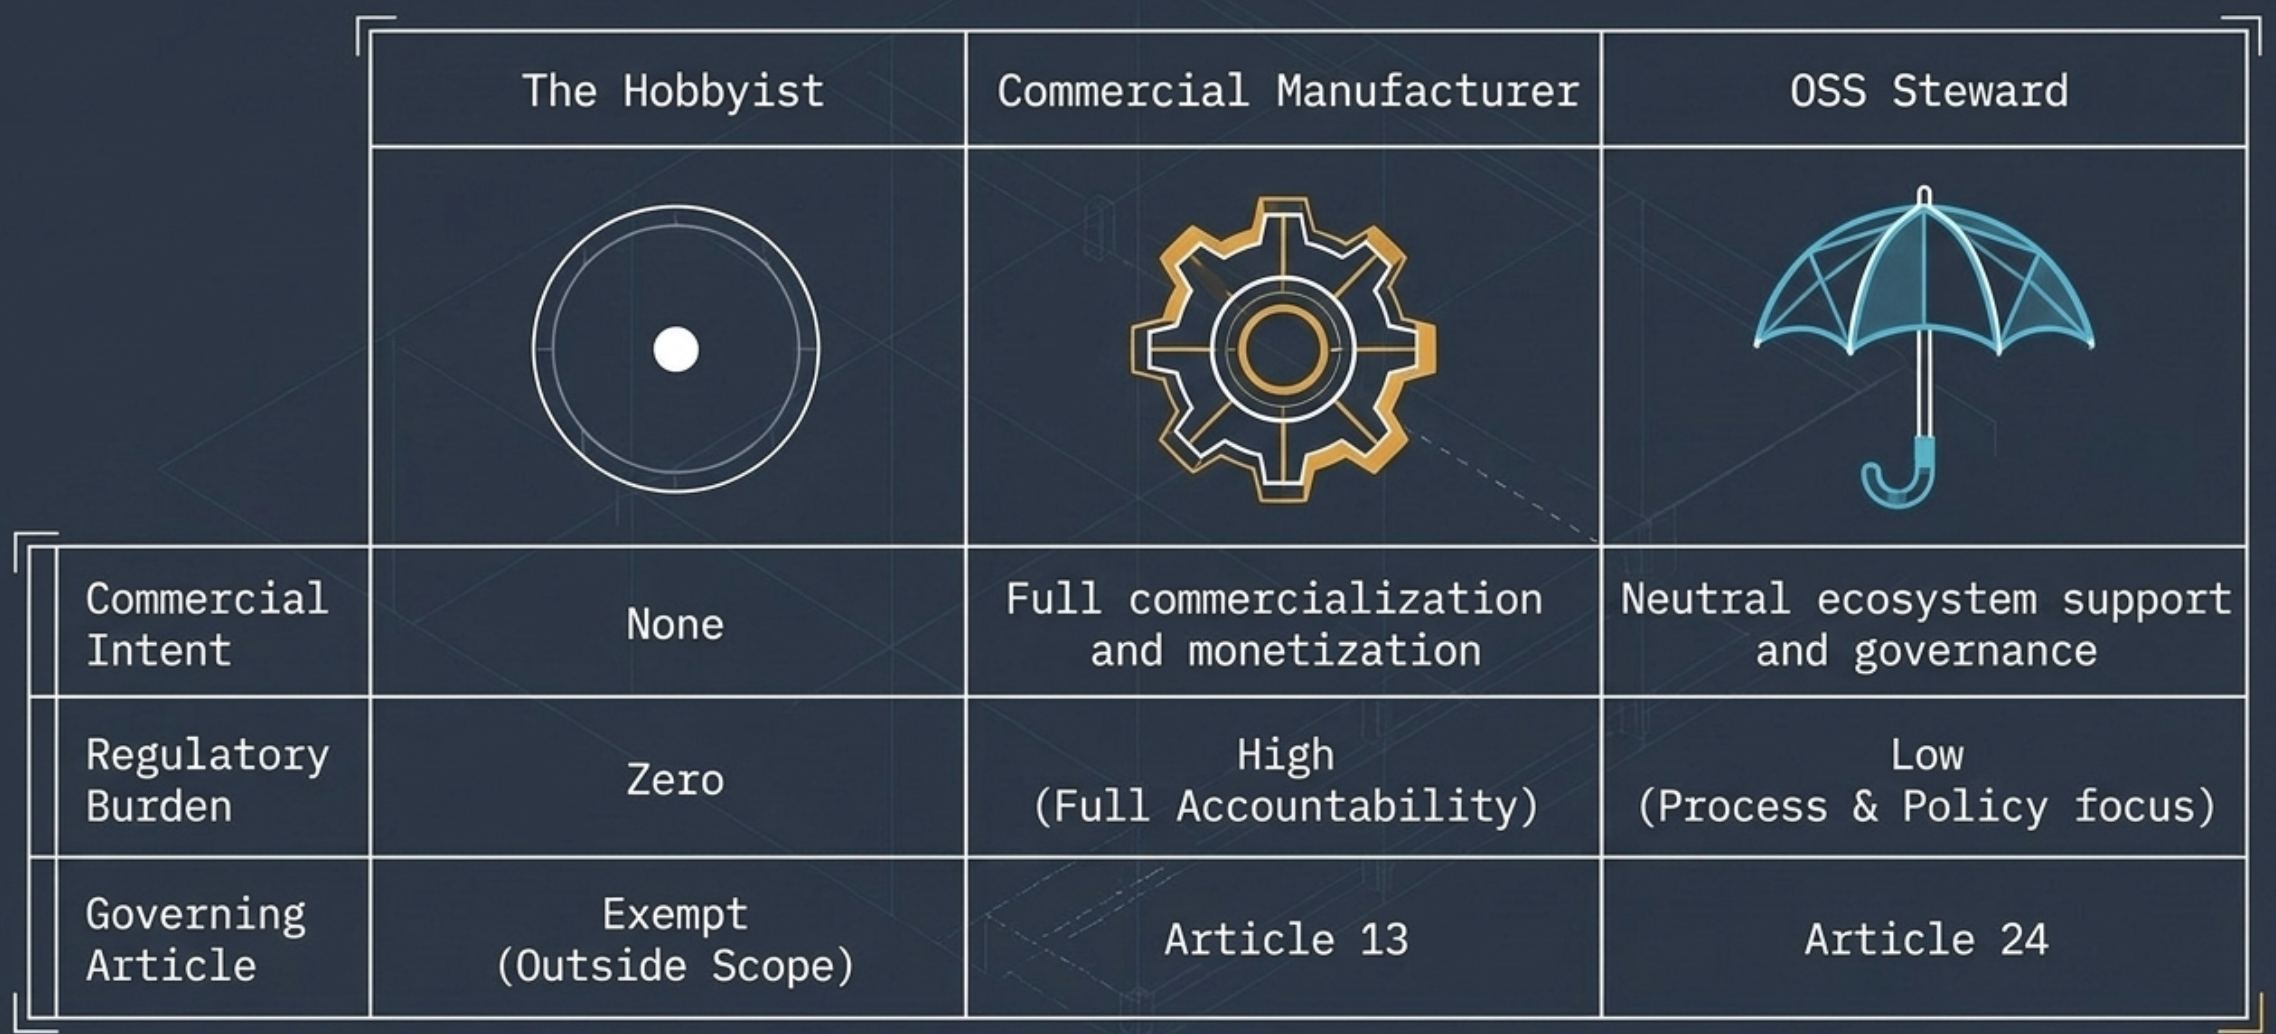
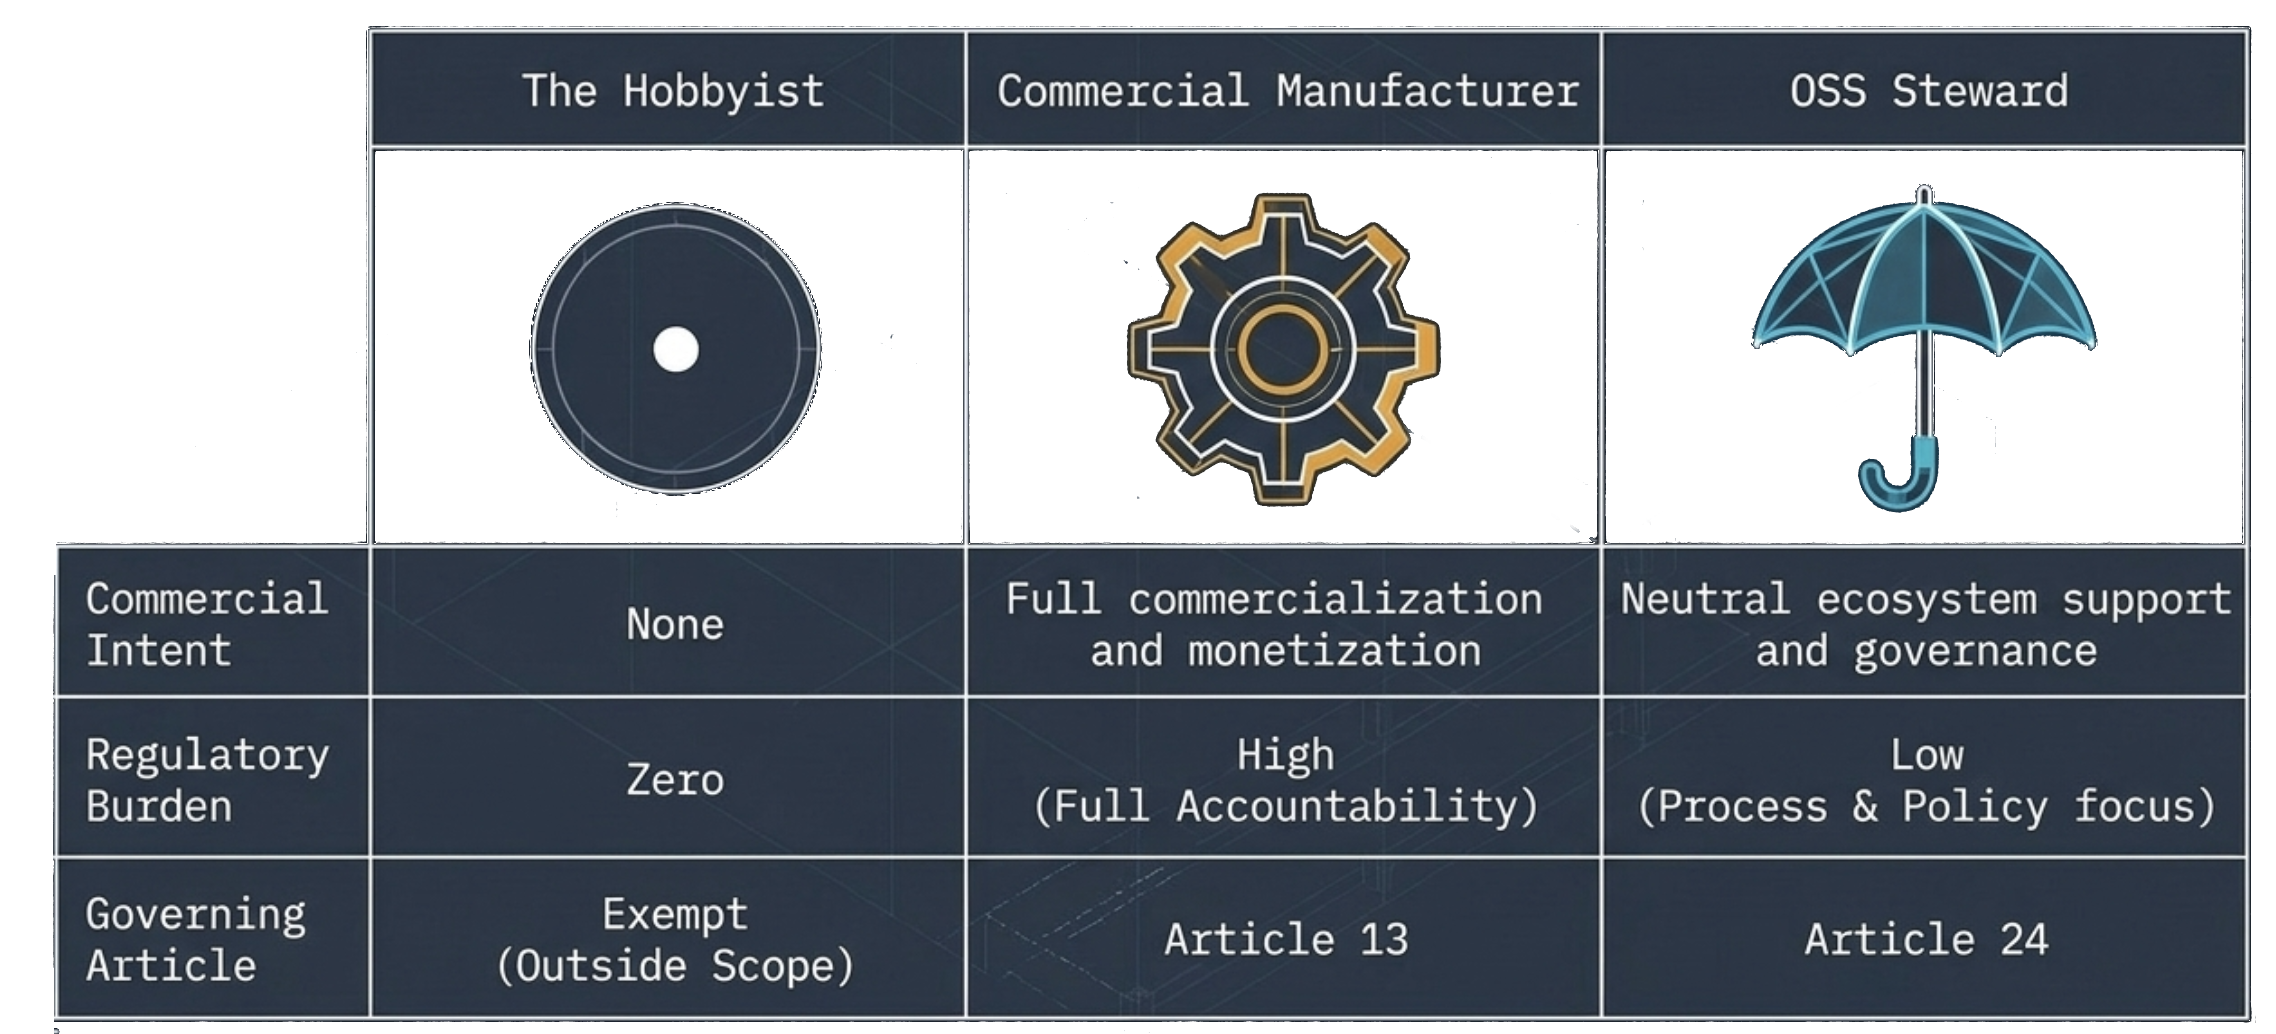
done for now

diff --git a/mom-cra-oss.md b/mom-cra-oss.md
@@ -13,7 +13,6 @@ Compliant with the reveal.js<br/>
 click the logo to see it live!
 
 ---
-
 ---
 
 # Mind over Machine
@@ -21,29 +20,27 @@ click the logo to see it live!
 We are a non-profit foundation combining a **think tank**, a **laboratory**, and a **community of practice**. Our mission is to explore and share regenerative approaches to software development that create a net positive long-term value for people and humanity.
 
 ---
-
 ---
 
 <!-- .slide: style="font-size: 0.85em;" -->
 
 ## Open Source - before and after
 
-OSS software becomes regulated
+EU's Cyber Resilince Act (CRA)
 
-![mom](./assets/oss-before-after-crs.png)<!-- .element style="height: 350px; margin: 0 auto 4rem auto; background: transparent; align: left;" -->
+![mom](./assets/oss-before-after-cra.png)<!-- .element style="height: 350px; margin: 0 auto 4rem auto; background: transparent; align: left;" -->
 
 Note:
 
 ---
 
-## Open Source - before and after
+## EU's Cyber Resilince Act
 
 - **Mandates**<br/>_Secure-by-Desing_ for all products with digital elements
 - **Paradigm shift**<br/>OSS is not a loop hole. EU market entry requires specific legal accountability
 - **Goals**<br/>Secure free movement of secure products
 
 ---
-
 ---
 
 ## Open Source - three roles
@@ -56,7 +53,7 @@ Note:
 
 ## Ultimate Responsibility Rests with the Manufacturer
 
-- **Article 13:**<br/>The legal obligation to comply with the CRA falls squarely on the manufacturer
+- **[Article 13](https://www.european-cyber-resilience-act.com/Cyber_Resilience_Act_Article_13.html):**<br/>The legal obligation to comply with the CRA falls squarely on the manufacturer
 
 - **Manufacturere Definition:**<br/>The economic operator that places the final digital product on the EU market
 
@@ -66,7 +63,7 @@ Note:
 
 ## OSS Stewards Are Recognized Legal Entities, Not Mandatory Gatekeepers
 
-- **Article 24**:<br/>Defines light-weight obligations specifically for Open-Source Software Stewards
+- **[Article 24](https://www.european-cyber-resilience-act.com/Cyber_Resilience_Act_Article_24.html)**:<br/>Defines light-weight obligations specifically for Open-Source Software Stewards
 
 - **OSS Steward Definition:**<br/>Not-for-profit legal entities that provide sustained support and infrastructure for FOSS projects
 
@@ -79,21 +76,20 @@ Note:
 - **But the second you start charging...**<br/>...customers for your product, you tranform into the _manufacturere_ role yourself!
 
 ---
-
 ---
 
 ## Manufacturere responsibilities
 
-- Technical Documentation (Article 31)
+- Technical Documentation ([Article&nbsp;31](https://www.european-cyber-resilience-act.com/Cyber_Resilience_Act_Article_31.html))
   - SBOM (Software Bill Of Materials)
   - Cybersecurity Risk Assessment
   - Test Reports & Verification Data
   - Evidence of secure-by-design
   - Architectural design
   - Vulnerability scans
-- EU Declaration of Conformity (Article 28)
-- CE Marking (Articles 29 & 30)
-- Mandatory Vulnerability & Incident Reports (Article 14)
+- EU Declaration of Conformity ([Article&nbsp;28](https://www.european-cyber-resilience-act.com/Cyber_Resilience_Act_Article_28.html))
+- CE Marking (Articles&nbsp;[29](https://www.european-cyber-resilience-act.com/Cyber_Resilience_Act_Article_29.html)&nbsp;&&nbsp;[30](https://www.european-cyber-resilience-act.com/Cyber_Resilience_Act_Article_30.html))
+- Mandatory Vulnerability & Incident Reports ([Article&nbsp;14](https://www.european-cyber-resilience-act.com/Cyber_Resilience_Act_Article_14.html))
 
 <!-- .element style="font-size: 0.8em;" -->
 
@@ -101,30 +97,28 @@ Note:
 
 ## OSS Steward responsibilities
 
-- Verifiable Cybersecurity Policy (Article 24(1))
-- Policy Documentation for Authorities (Article 24(2))
-- Targeted Infrastructure Incident Reports (Article 24(3) & Article 14)
-- Voluntary Security Attestations (Article 25)
+- Verifiable Cybersecurity Policy ([Article&nbsp;24](https://www.european-cyber-resilience-act.com/Cyber_Resilience_Act_Article_24.html)(1))
+- Policy Documentation for Authorities ([Article&nbsp;24](https://www.european-cyber-resilience-act.com/Cyber_Resilience_Act_Article_24.html)(2))
+- Targeted Infrastructure Incident Reports ([Article&nbsp;24](https://www.european-cyber-resilience-act.com/Cyber_Resilience_Act_Article_24.html)(3) &[Article&nbsp;14](https://www.european-cyber-resilience-act.com/Cyber_Resilience_Act_Article_14.html))
+- Voluntary Security Attestations ([Article&nbsp;25](https://www.european-cyber-resilience-act.com/Cyber_Resilience_Act_Article_25.html))
 
 ---
 
----
-
-## Split work - a match made in heaven
+## Split work
 
 In practice, the relationship between a commercial manufacturer and a non-profit OSS steward works as a co-funded alliance model
 
 <!-- .element style="font-size: 0.8em;" -->
 
 - Commercial manufacturers support, donate or pay retainers and alliance membership fees to the steward foundation
-- In return, the steward maintains the core open-source project under formal Article 24+25
-- The steward **also** maintains the development pipeline so it produces the required output that the manufacturere can efforlessly consume to comply with Article 31.
+- In return, the steward maintains the core open-source project under formal Article&nbsp;[24](https://www.european-cyber-resilience-act.com/Cyber_Resilience_Act_Article_24.html)+[25](https://www.european-cyber-resilience-act.com/Cyber_Resilience_Act_Article_25.html)
+- The steward **also** maintains the development pipeline so it produces the required output that the manufacturere can efforlessly consume to comply with [Article&nbsp;31](https://www.european-cyber-resilience-act.com/Cyber_Resilience_Act_Article_24.html).
 
 <!-- .element style="font-size: 0.8em;" -->
 
 ---
 
-## Split responsibilities - a match made in heaven
+## Split responsibilities
 
 While the manufacturere remain fully liable — a lot of the heavy lifting in the SLDC is liftet off to the foundation's personel. The steward will set the quality standards.
 
@@ -133,3 +127,11 @@ While the manufacturere remain fully liable — a lot of the heavy lifting in th
 Most often the lead developers will remain exactly the same as before, but with the added benefit, that lead developers will _continue_ to be leads - even when employment with manufaturere is terminated.
 
 <!-- .element style="font-size: 0.8em;" -->
+
+
+---
+---
+
+<!-- .slide: data-background="#1d4333" -->
+
+![political](./assets/mom-coin-grown.svg)<!-- .element style="height: 450px; margin: 0 auto 4rem auto; background: transparent; align: left;" -->

diff --git a/mom-pitch.md b/mom-pitch.md
@@ -3,8 +3,8 @@
   description : "The Regenerative Software Foundation"
   transition : "convex"
   author : "lakruzz"
+  theme : mom
 ---
-<!-- .slide: data-background="#f5ebe0" -->
 
 [![reveal markdown](./assets/reveal-black-text.svg)<!-- .element style="height: 120px; margin: 0 auto 4rem auto; background: transparent;" -->](https://reveals.lakruzz.com/markdownloader/?owner=mindovermachine-dev&repo=reveals&file=mom-pitch.md) 
 
@@ -17,16 +17,10 @@ click the logo to see it live!
 
 # Mind over Machine
 
-
-<!-- .slide: data-background-color="#f5ebe0" data-background="./assets/mom-brain.png" data-background-size="100px" data-background-position="bottom 20px left 20px" -->
-
 We are a non-profit foundation combining a **think tank**, a **laboratory**, and a **community of practice**. Our mission is to explore and share regenerative approaches to software development that create a net positive long-term value for people and humanity.
 
 ---
 ---
-
-<!-- .slide: data-background-color="#f5ebe0" data-background="./assets/mom-brain.png" data-background-size="100px" data-background-position="bottom 20px left 20px" -->
-
 
 ## Public Money — Public Code
 Study Use Modify Share
@@ -45,7 +39,7 @@ MoM FOSS Dev Stack operationaliserer princippet om "Public Money, Public Code". 
 
 ---
 
-<!-- .slide: data-background-color="#f5ebe0" data-background="./assets/mom-brain.png" data-background-size="100px" data-background-position="bottom 20px left 20px" style="font-size: 0.85em;" -->
+<!-- .slide: style="font-size: 0.85em;" -->
 
 ![reusable](./assets/study-use-alter-share.png)<!-- .element style="position: absolute; top: -100px; left: -10px; height: 100px; margin: 0; background: transparent;" -->
 
@@ -67,7 +61,6 @@ MoM FOSS Dev Stack operationaliserer princippet om "Public Money, Public Code". 
 ---
 ---
 
-<!-- .slide: data-background-color="#f5ebe0" data-background="./assets/mom-brain.png" data-background-size="100px" data-background-position="bottom 20px left 20px" -->
 
 # Bryd kæden
 Tag kontrol
@@ -81,7 +74,7 @@ Europa befinder sig  i en fundamental magtforskydning. Digital suverænitet er t
 
 ---
 
-<!-- .slide: data-background-color="#f5ebe0" data-background="./assets/mom-brain.png" data-background-size="100px" data-background-position="bottom 20px left 20px" style="font-size: 0.8em;" -->
+<!-- .slide: style="font-size: 0.8em;" -->
 
 ![reusable](./assets/break-chain.png)<!-- .element style="position: absolute; top: -75px; left: -10px; height: 100px; margin: 0; background: transparent;" -->
 
@@ -100,8 +93,6 @@ Med EU's **Digital Sovereignty Package** og principperne om **"Open Source First
 ---
 ---
 
-<!-- .slide: data-background-color="#f5ebe0" data-background="./assets/mom-brain.png" data-background-size="100px" data-background-position="bottom 20px left 20px" -->
-
 # MoM
 (Moooar!)
 
@@ -117,8 +108,6 @@ MoM har som ambition at levere den fulde FOSS _Supply chain;_ Kvalitet, Sikkerhe
 
 ---
 
-<!-- .slide: data-background-color="#f5ebe0" data-background="./assets/mom-brain.png" data-background-size="100px" data-background-position="bottom 20px left 20px" -->
-
 ![reusable](./assets/supply-chain.png)<!-- .element style="position: absolute; top: -120px; left: -10px; height: 100px; margin: 0; background: transparent;" -->
 
 # Moooar!
@@ -128,8 +117,6 @@ FOSS står ofte stærkt _i princippet!_
 ...men udfordres i praksis af frygt for manglende support/SLA'er, mangel på interne tekniske kompetencer, et svigtende community, samt udefra påførte stærke proprietære bindinger.
 
 ---
-
-<!-- .slide: data-background-color="#f5ebe0" data-background="./assets/mom-brain.png" data-background-size="100px" data-background-position="bottom 20px left 20px" -->
 
 ![reusable](./assets/supply-chain.png)<!-- .element style="position: absolute; top: -10px; left: -10px; height: 100px; margin: 0; background: transparent;" -->
 
@@ -150,8 +137,6 @@ MoM kan levere på den fulde FOSS _Supply chain:_
 ---
 ---
 
-<!-- .slide: data-background-color="#f5ebe0" data-background="./assets/mom-brain.png" data-background-size="100px" data-background-position="bottom 20px left 20px" -->
-
 # Suverænitet
 
 Med Lov Skal Man Land Bygge
@@ -166,8 +151,6 @@ Ved at anvende MoM’s "Rubric of Evilness" kan vi kvantificere risikoen i vores
 
 ---
 
-<!-- .slide: data-background-color="#f5ebe0" data-background="./assets/mom-brain.png" data-background-size="100px" data-background-position="bottom 20px left 20px" -->
-
 # Suverænitet
 
 ![reusable](./assets/national-server.png)<!-- .element style="position: absolute; top: -110px; left: -10px; height: 100px; margin: 0; background: transparent;" -->
@@ -175,8 +158,6 @@ Ved at anvende MoM’s "Rubric of Evilness" kan vi kvantificere risikoen i vores
 Den nuværende kommunale it-arkitektur er i høj grad præget af fragmentering og en dyb afhængighed af proprietære cloud-platforme. Dette skaber en "innovationstørke", hvor data er låst i siloer, og hvor små it-organisationer drænes for ressourcer til vedligeholdelse og compliance.
 
 ---
-
-<!-- .slide: data-background-color="#f5ebe0" data-background="./assets/mom-brain.png" data-background-size="100px" data-background-position="bottom 20px left 20px" -->
 
 # Suverænitet
 
@@ -193,10 +174,7 @@ Ved at anvende MoM’s "Rubric of Evilness" kan vi kvantificere risikoen i vores
 ---
 ---
 
-<!-- .slide: data-background-color="#f5ebe0" data-background="./assets/mom-brain.png" data-background-size="100px" data-background-position="bottom 20px left 20px" -->
-
 # Pan Europæisk Fællesskab
-
 
 ![reusable](./assets/townhalls-connected.png)<!-- .element style="height: 350px; margin: 0 auto 4rem auto; background: transparent; align: left;" -->
 
@@ -211,8 +189,6 @@ Indfører sikkerhedskrav for software. CRA anerkender FOSS, men stiller krav om 
 
 ---
 
-<!-- .slide: data-background-color="#f5ebe0" data-background="./assets/mom-brain.png" data-background-size="100px" data-background-position="bottom 20px left 20px" -->
-
 # Pan Europæisk Fællesskab
 
 
@@ -223,8 +199,6 @@ Indfører sikkerhedskrav for software. CRA anerkender FOSS, men stiller krav om 
 Bindende lovgivning, der pålægger offentlige administrationer i EU at foretage interoperabilitetsvurderinger og fremmer deling samt genbrug af FOSS-løsninger.
 
 ---
-
-<!-- .slide: data-background-color="#f5ebe0" data-background="./assets/mom-brain.png" data-background-size="100px" data-background-position="bottom 20px left 20px" -->
 
 # Pan Europæisk Fællesskab
 
